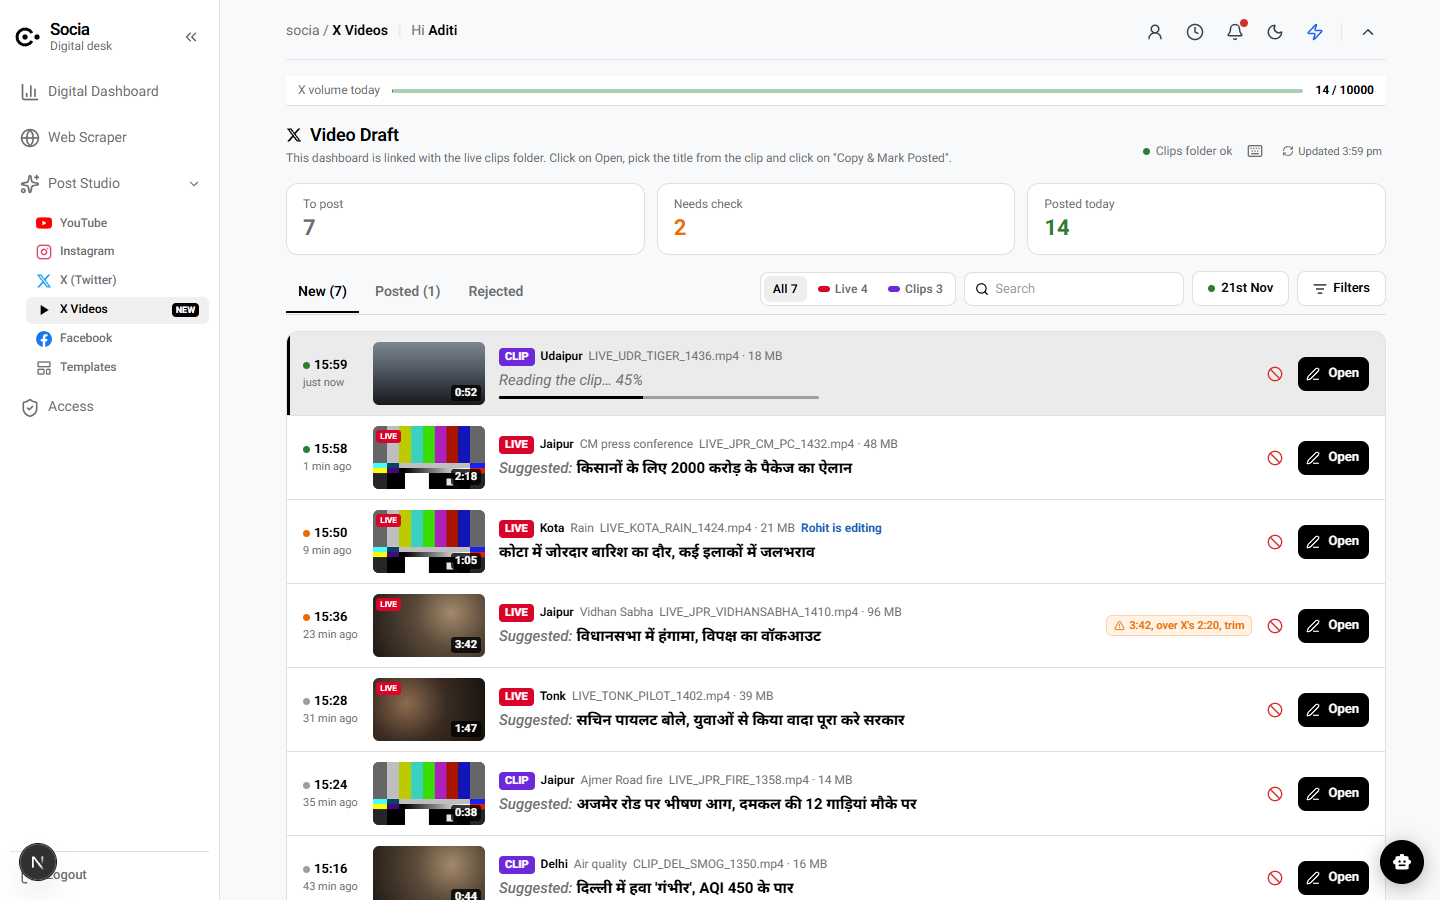
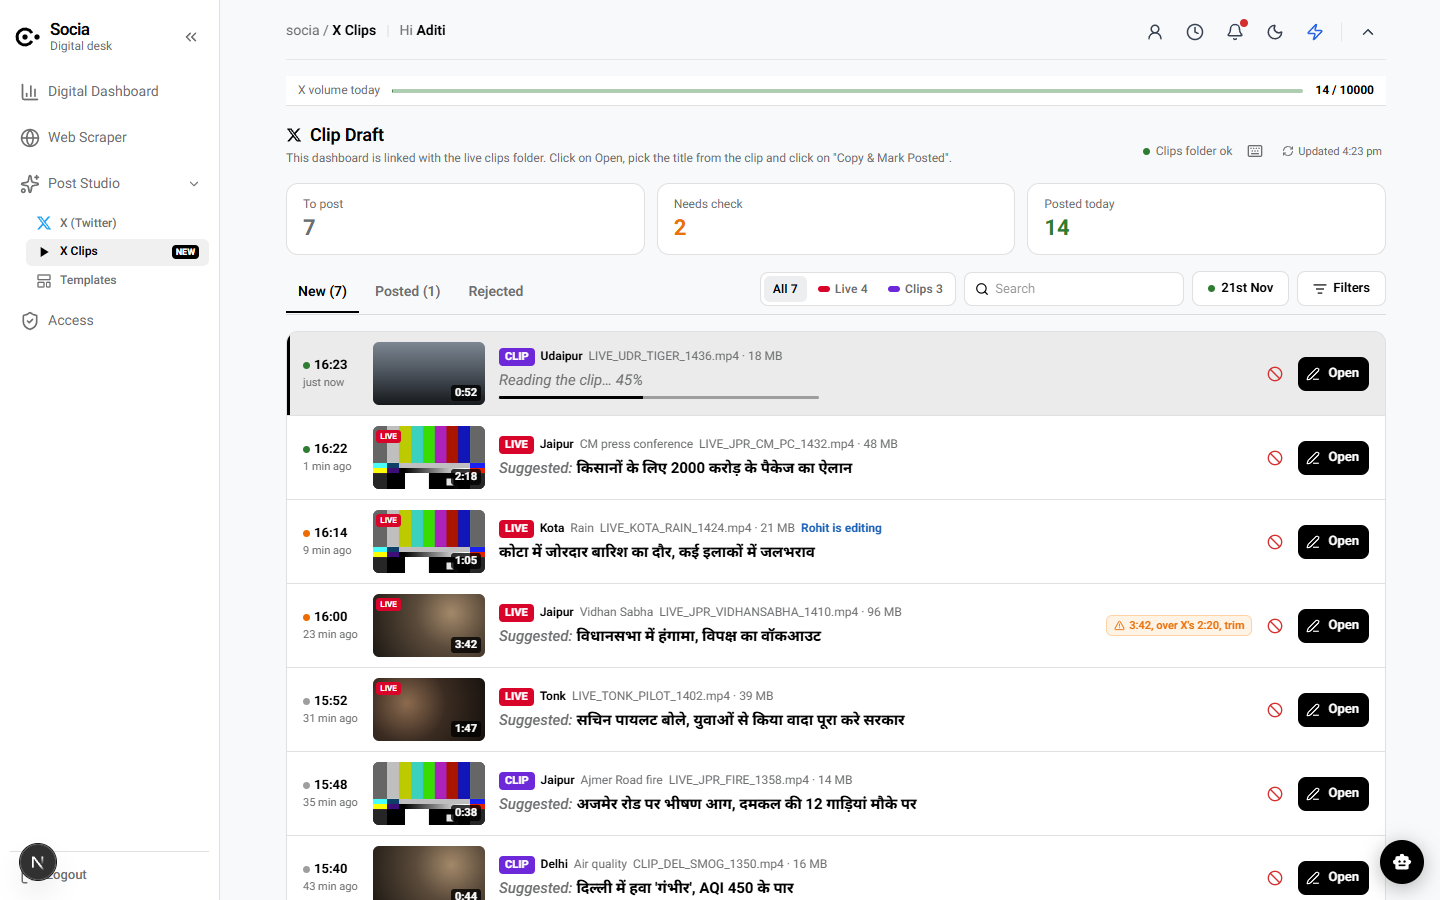
Rename X Videos to X Clips and show only X desks in Post Studio
With NEXT_PUBLIC_XVIDEOS on, Post Studio lists only X (Twitter) and
X Clips; YouTube, Instagram and Facebook are hidden. With the flag off
the menu is unchanged.

diff --git a/src/components/leftNavigation/leftNavigation.tsx b/src/components/leftNavigation/leftNavigation.tsx
@@ -153,9 +153,10 @@ const LeftNavigation: React.FC = () => {
   const isCollapsed = sidebarWidth < 80;
 
   // Post Studio lists only the desks this person may open
-  const studioItems: { label: string; icon: React.ReactNode; platformKey: string; path: string; isNew?: boolean }[] = AI_CONTENT_PLATFORMS.filter((p) => can(postStudioKey(p.platformKey)) && showsPlatform(p.platformKey)).flatMap((p) => {
+  // With the X Clips flag on, Post Studio shows only X and X Clips (YouTube, Instagram and Facebook are hidden); off, as before
+  const studioItems: { label: string; icon: React.ReactNode; platformKey: string; path: string; isNew?: boolean }[] = AI_CONTENT_PLATFORMS.filter((p) => can(postStudioKey(p.platformKey)) && showsPlatform(p.platformKey) && (!XVIDEOS_ENABLED || p.platformKey === "X")).flatMap((p) => {
     const item = { label: p.label, icon: p.icon(16), platformKey: p.platformKey, path: p.path };
-    // X Videos sits just under X, behind its flag (off on the live desk)
+    // X Clips sits just under X, behind its flag (off on the live desk)
     return XVIDEOS_ENABLED && p.platformKey === "X" ? [item, { label: XVIDEOS_NAV_ITEM.label, icon: XVIDEOS_NAV_ITEM.icon(16), platformKey: XVIDEOS_NAV_ITEM.platformKey, path: XVIDEOS_NAV_ITEM.path, isNew: true }] : [item];
   });
   const canManageAccess = can("page.settings") && canAny(["roles.manage", "users.manage"]);

diff --git a/src/components/Newsroom/XVideos/XVideosDesk.tsx b/src/components/Newsroom/XVideos/XVideosDesk.tsx
@@ -176,7 +176,7 @@ function Desk() {
           <Box sx={{ display: "flex", alignItems: "center", gap: 1 }}>
             <XIcon size={16} color="currentColor" />
             <Typography component="h1" sx={{ fontWeight: 600, fontSize: "1.125rem", letterSpacing: "-0.01em" }}>
-              Video Draft
+              Clip Draft
             </Typography>
           </Box>
           <Typography sx={{ fontSize: "0.75rem", color: "text.secondary", mt: 0.25 }}>This dashboard is linked with the live clips folder. Click on Open, pick the title from the clip and click on &quot;Copy &amp; Mark Posted&quot;.</Typography>
@@ -220,7 +220,7 @@ function Desk() {
 
       {/* Tabs + filters */}
       <Box sx={{ display: "flex", alignItems: "center", gap: 1.25, flexWrap: "wrap", borderBottom: "1px solid", borderColor: "divider" }}>
-        <Box role="tablist" aria-label="Video Draft sections" sx={{ display: "flex", gap: 0.5 }}>
+        <Box role="tablist" aria-label="Clip Draft sections" sx={{ display: "flex", gap: 0.5 }}>
           {(
             [
               ["new", `New (${newClips.length})`],

diff --git a/src/lib/access/catalogue.ts b/src/lib/access/catalogue.ts
@@ -154,7 +154,7 @@ export const ROUTE_ACCESS: { prefix: string; any: string[]; title: string }[] = 
   { prefix: "/ai-content", any: POST_STUDIO_PAGES, title: "Post Studio" },
   { prefix: "/ai-content/x", any: ["page.post_studio.x"], title: "Post Studio: X" },
   // The X Videos desk (behind NEXT_PUBLIC_XVIDEOS) follows the X desk's rule
-  { prefix: "/ai-content/x-videos", any: ["page.post_studio.x"], title: "Post Studio: X Videos" },
+  { prefix: "/ai-content/x-videos", any: ["page.post_studio.x"], title: "Post Studio: X Clips" },
   // Post Studio → Templates holds the X desk's templates, so it follows the X desk's rule
   { prefix: "/ai-content/templates", any: ["page.post_studio.x"], title: "Post Studio: Templates" },
   { prefix: "/ai-content/instagram", any: ["page.post_studio.instagram"], title: "Post Studio: Instagram" },

diff --git a/src/components/leftNavigation/aiContentPlatforms.tsx b/src/components/leftNavigation/aiContentPlatforms.tsx
@@ -40,12 +40,12 @@ export const XVideosIcon: React.FC<IconProps> = ({ size = 16, color = "currentCo
 );
 
 /**
- * Post Studio → X Videos, shown just after X (Twitter) only when NEXT_PUBLIC_XVIDEOS=true (config.XVIDEOS_ENABLED).
+ * Post Studio → X Clips, shown just after X (Twitter) only when NEXT_PUBLIC_XVIDEOS=true (config.XVIDEOS_ENABLED).
  * Kept out of AI_CONTENT_PLATFORMS so the Web Scraper's "Create draft for…" and the home-page choice never list it.
  * It follows the X desk's permission.
  */
 export const XVIDEOS_NAV_ITEM = {
-  label: "X Videos",
+  label: "X Clips",
   platformKey: "X Videos",
   path: "/ai-content/x-videos",
   icon: (s: number) => <XVideosIcon size={s} />,

diff --git a/src/app/ai-content/x-videos/page.tsx b/src/app/ai-content/x-videos/page.tsx
@@ -22,7 +22,7 @@ function NotAvailable() {
           <PauseCircle size={20} aria-hidden />
         </Box>
         <Typography component="h1" sx={{ fontWeight: 600, fontSize: "1.0625rem" }}>
-          X Videos is not available yet.
+          X Clips is not available yet.
         </Typography>
         <Typography sx={{ fontSize: "0.875rem", color: "text.secondary" }}>The video desk is still being built. Posts from breaking files are on the X desk.</Typography>
         <Button component={Link} href="/ai-content/x" variant="outlined" sx={{ mt: 1, borderColor: "divider", color: "text.primary" }}>

diff --git a/src/app/ai-content/x-videos/layout.tsx b/src/app/ai-content/x-videos/layout.tsx
@@ -2,7 +2,7 @@ import type { Metadata } from "next";
 
 // The X Videos desk's browser tab title; the page itself is a client component, so the title lives here
 export const metadata: Metadata = {
-  title: "socia/X - Video Draft",
+  title: "socia/X - Clip Draft",
 };
 
 export default function XVideosLayout({ children }: { children: React.ReactNode }) {

diff --git a/src/components/Header/DashBoardCommonHeader.tsx b/src/components/Header/DashBoardCommonHeader.tsx
@@ -139,7 +139,7 @@ const DashBoardCommonHeader: React.FC = () => {
       digital: "Digital Dashboard",
       "ai-content": "Post Studio",
       "web-scraper": "Web Scraper",
-      "x-videos": "X Videos",
+      "x-videos": "X Clips",
       profile: "Your profile",
       access: "Access",
     };
